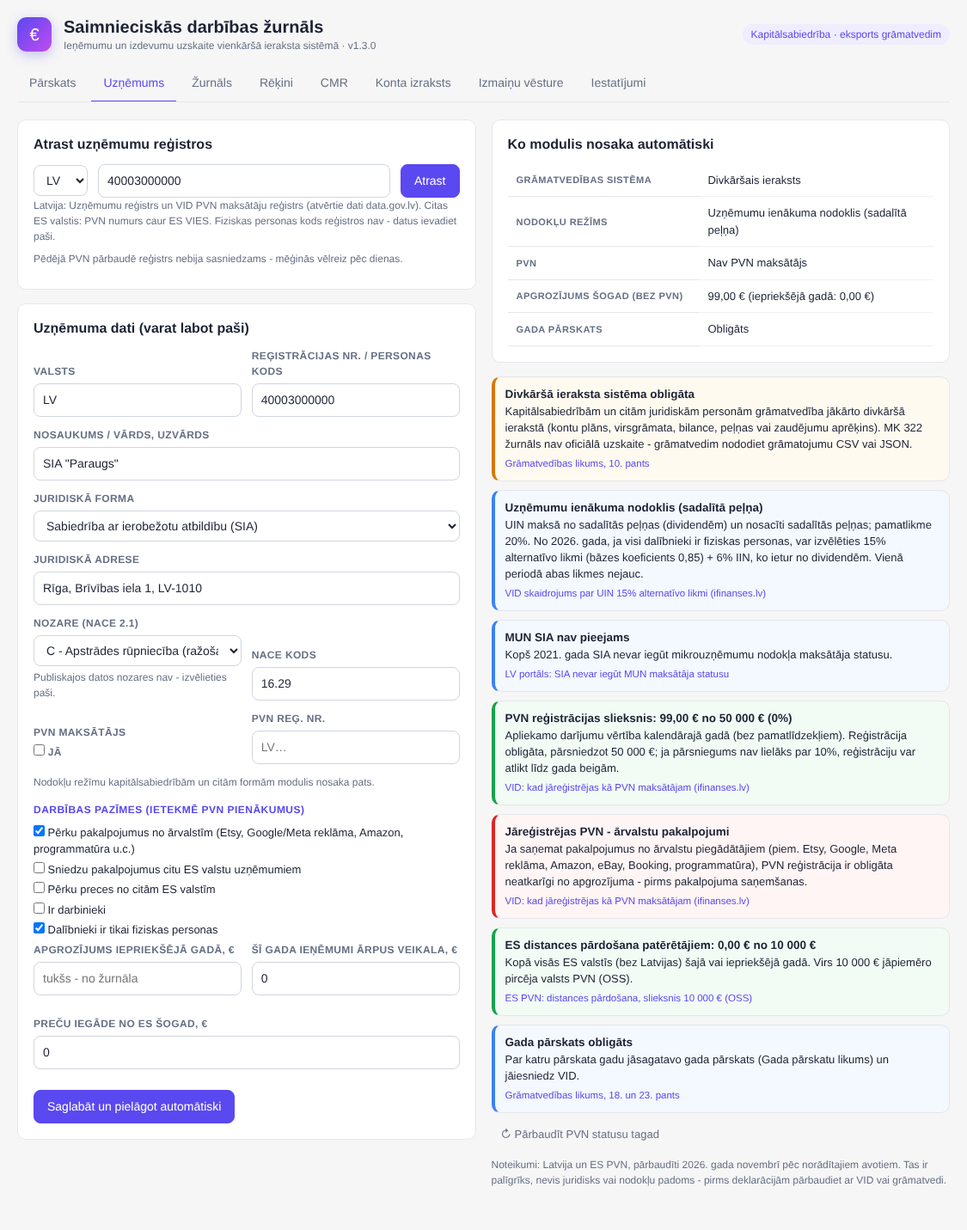
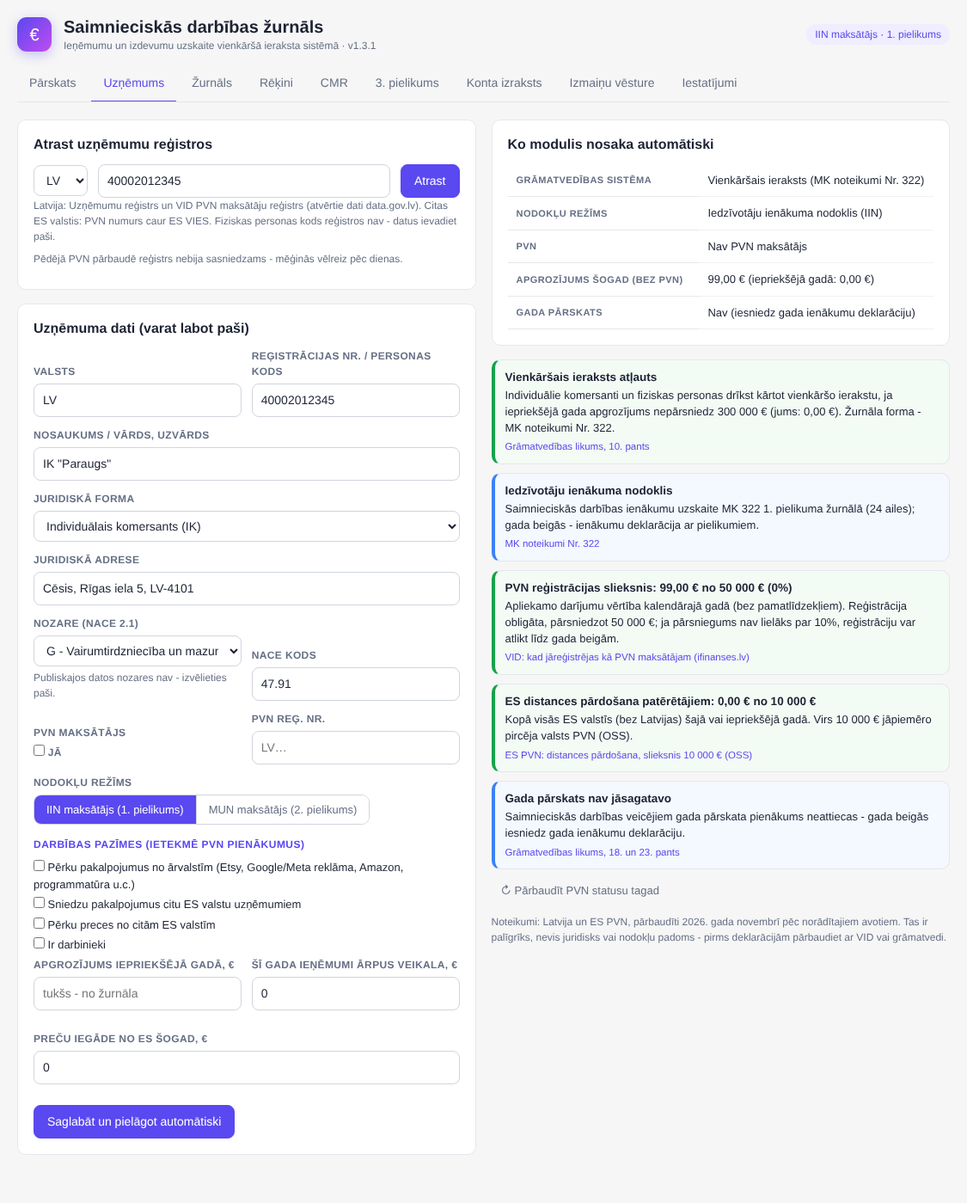
LV Books page, LV journal for IK at $49, accountant review offer
Claude-Session: https://claude.ai/code/session_01BDzH6KM6mpwT9xKqHFzTSu

diff --git a/lv-journal.html b/lv-journal.html
@@ -1,6 +1,6 @@
 <!doctype html>
 <html lang="lv"><head><meta charset="utf-8"><meta name="viewport" content="width=device-width, initial-scale=1">
-<title>Saimnieciskās darbības žurnāls - OpenCart extension</title><meta name="description" content="Ieņēmumu un izdevumu uzskaites žurnāls (MK noteikumi Nr. 322), kas aizpildās no jūsu OpenCart pasūtījumiem - ar rēķiniem, čeku foto un izmaiņu vēsturi."><style>:root{--bg:#f6f7f9;--card:#fff;--ink:#17202a;--mut:#5b6773;--line:#e2e7ec;--acc:#12805c;--acc2:#1f6fb8;--chip:#eef2f5}
+<title>Saimnieciskās darbības žurnāls - OpenCart extension</title><meta name="description" content="IK un pašnodarbinātajiem: ieņēmumu un izdevumu uzskaites žurnāls (MK noteikumi Nr. 322), kas aizpildās no jūsu OpenCart pasūtījumiem - ar rēķiniem, čeku foto un izmaiņu vēsturi. SIA - skat. SIA grāmatvedība."><style>:root{--bg:#f6f7f9;--card:#fff;--ink:#17202a;--mut:#5b6773;--line:#e2e7ec;--acc:#12805c;--acc2:#1f6fb8;--chip:#eef2f5}
 @media (prefers-color-scheme:dark){:root{--bg:#0f1418;--card:#171e24;--ink:#e8edf1;--mut:#9aa7b2;--line:#26313a;--acc:#2fb487;--acc2:#5aa5e6;--chip:#1f2830}}
 *{box-sizing:border-box}body{margin:0;background:var(--bg);color:var(--ink);font:16px/1.55 -apple-system,BlinkMacSystemFont,"Segoe UI",Roboto,Helvetica,Arial,sans-serif}
 a{color:var(--acc2)}.wrap{max-width:1000px;margin:0 auto;padding:0 16px}
@@ -19,12 +19,12 @@ ol.s{margin:0;padding-left:22px}ol.s li{margin:6px 0}
 footer{margin:44px 0 0;padding:22px 0 40px;border-top:1px solid var(--line);color:var(--mut);font-size:14px}</style></head>
 <body><div class="wrap">
 <nav><a href="./">&larr; Visi paplašinājumi</a></nav>
-<header><h1>Saimnieciskās darbības žurnāls</h1><p>Ieņēmumu un izdevumu uzskaites žurnāls (MK noteikumi Nr. 322), kas aizpildās no jūsu OpenCart pasūtījumiem - ar rēķiniem, čeku foto un izmaiņu vēsturi.</p>
-<div class="buy"><span class="price">$22</span><a class="btn main" href="https://www.opencart.com/index.php?route=marketplace/extension/info&amp;extension_id=50265">Pirkt OpenCart Marketplace</a><a class="btn" href="docs/LV_JOURNAL_GUIDE.md">Lietošanas pamācība</a></div>
+<header><h1>Saimnieciskās darbības žurnāls</h1><p>IK un pašnodarbinātajiem: ieņēmumu un izdevumu uzskaites žurnāls (MK noteikumi Nr. 322), kas aizpildās no jūsu OpenCart pasūtījumiem - ar rēķiniem, čeku foto un izmaiņu vēsturi. SIA - skat. SIA grāmatvedība.</p>
+<div class="buy"><span class="price">$49</span><a class="btn main" href="https://www.opencart.com/index.php?route=marketplace/extension/info&amp;extension_id=50265">Pirkt OpenCart Marketplace</a><a class="btn" href="docs/LV_JOURNAL_GUIDE.md">Lietošanas pamācība</a></div>
 <div class="chips"><span>OpenCart 3 + 4 vienā pirkumā</span><span>Netiek mainīti OpenCart faili</span><span>12 mēnešu atjauninājumi un atbalsts</span></div></header>
 <h2>Demo video</h2><div class="card"><video controls muted playsinline preload="metadata" poster="assets/lv_journal_demo_poster.jpg"><source src="assets/lv_journal_demo.mp4" type="video/mp4"></video><p style="margin:8px 2px 0;color:var(--mut);font-size:14px">32 sekundes, bez skaņas, ar parakstiem</p></div>
-<h2>Ko tas dara</h2><div class="card"><ul class="f"><li>Apmaksātie pasūtījumi, atmaksas un maksājumu komisijas tiek ierakstīti žurnālā automātiski, brīdī kad mainās statuss</li><li>Nekas netiek dzēsts: importētie ieraksti ir aizsargāti un tiek laboti ar korekcijas ierakstu, manuālos var anulēt ar iemeslu, katra izmaiņa redzama vēsturē</li><li>Rēķini ar nepārtrauktu numerāciju (R-2026-00001), kredītrēķini pie atmaksām, nosūtīšana pircējam e-pastā</li><li>Izdevumi no čeka vai rēķina foto: teksts tiek nolasīts pārlūkā, foto netiek sūtīts uz internetu; fails tiek saglabāts kā attaisnojuma dokuments</li><li>Pārbaudes: trūkstoši pasūtījumi un atmaksas, sākuma atlikumi, konta izraksts (camt.053), PVN 50 000 € un ES OSS 10 000 € sliekšņi</li><li>1., 2. un 3. pielikums, Latvijas Bankas kurss darījuma dienā, drukāšana (PDF), CSV, grāmatojumi un JSON grāmatvedim</li><li>Uzņēmuma profils no reģistriem (UR, VID PVN, ES VIES): modulis pats nosaka uzskaites formu, nodokļu režīmu, PVN pienākumus un sliekšņus, ar saiti uz avotu pie katra secinājuma; PVN statusu pārbauda reizi nedēļā</li><li>CMR pavadzīmes: izejošās un ienākošās, aizpildītas no rēķina vai pasūtījuma, piesaistītas rēķiniem un ierakstiem, ar 24 ailu izdruku un saņemšanas atzīmi</li><li>Latviešu, angļu vai krievu valodā</li><li>Sagatavo žurnālu - neiesniedz deklarācijas VID</li></ul></div>
+<h2>Ko tas dara</h2><div class="card"><ul class="f"><li>Apmaksātie pasūtījumi, atmaksas un maksājumu komisijas tiek ierakstīti žurnālā automātiski, brīdī kad mainās statuss</li><li>Nekas netiek dzēsts: importētie ieraksti ir aizsargāti un tiek laboti ar korekcijas ierakstu, manuālos var anulēt ar iemeslu, katra izmaiņa redzama vēsturē</li><li>Rēķini ar nepārtrauktu numerāciju (R-2026-00001), kredītrēķini pie atmaksām, nosūtīšana pircējam e-pastā</li><li>Izdevumi no čeka vai rēķina foto: teksts tiek nolasīts pārlūkā, foto netiek sūtīts uz internetu; fails tiek saglabāts kā attaisnojuma dokuments</li><li>Pārbaudes: trūkstoši pasūtījumi un atmaksas, sākuma atlikumi, konta izraksts (camt.053), PVN 50 000 € un ES OSS 10 000 € sliekšņi</li><li>1., 2. un 3. pielikums, Latvijas Bankas kurss darījuma dienā, drukāšana (PDF), CSV, grāmatojumi un JSON grāmatvedim</li><li>Uzņēmuma profils no reģistriem (UR, VID PVN, ES VIES): modulis pats nosaka uzskaites formu, nodokļu režīmu, PVN pienākumus un sliekšņus, ar saiti uz avotu pie katra secinājuma; PVN statusu pārbauda reizi nedēļā</li><li>CMR pavadzīmes: izejošās un ienākošās, aizpildītas no rēķina vai pasūtījuma, piesaistītas rēķiniem un ierakstiem, ar 24 ailu izdruku un saņemšanas atzīmi</li><li>Latviešu, angļu vai krievu valodā</li><li>Grāmatvežiem: bezmaksas licence profesionālai pārbaudei - sazinieties ar izstrādātāju</li><li>Sagatavo žurnālu - neiesniedz deklarācijas VID</li></ul></div>
 
-<h2>Ekrānuzņēmumi</h2><div class="shots"><figure><img src="assets/lv_journal_1.png" alt="Pārskats ar pārbaudēm un sliekšņiem" loading="lazy"><figcaption>Pārskats ar pārbaudēm un sliekšņiem</figcaption></figure><figure><img src="assets/lv_journal_2.png" alt="Žurnāls: aizsargāti, anulēti un salīdzināti ieraksti" loading="lazy"><figcaption>Žurnāls: aizsargāti, anulēti un salīdzināti ieraksti</figcaption></figure><figure><img src="assets/lv_journal_3.png" alt="Rēķini un kredītrēķini" loading="lazy"><figcaption>Rēķini un kredītrēķini</figcaption></figure><figure><img src="assets/lv_journal_4.png" alt="Izdevumi no rēķina foto" loading="lazy"><figcaption>Izdevumi no rēķina foto</figcaption></figure><figure><img src="assets/lv_journal_5.png" alt="Izmaiņu vēsture" loading="lazy"><figcaption>Izmaiņu vēsture</figcaption></figure><figure><img src="assets/lv_journal_6.png" alt="CMR pavadzīmes" loading="lazy"><figcaption>CMR pavadzīmes</figcaption></figure><figure><img src="assets/lv_journal_7.png" alt="Uzņēmuma profils un noteikumi" loading="lazy"><figcaption>Uzņēmuma profils un noteikumi</figcaption></figure></div>
+<h2>Ekrānuzņēmumi</h2><div class="shots"><figure><img src="assets/lv_journal_1.png" alt="Pārskats ar pārbaudēm un sliekšņiem" loading="lazy"><figcaption>Pārskats ar pārbaudēm un sliekšņiem</figcaption></figure><figure><img src="assets/lv_journal_2.png" alt="Žurnāls: aizsargāti, anulēti un salīdzināti ieraksti" loading="lazy"><figcaption>Žurnāls: aizsargāti, anulēti un salīdzināti ieraksti</figcaption></figure><figure><img src="assets/lv_journal_3.png" alt="Rēķini un kredītrēķini" loading="lazy"><figcaption>Rēķini un kredītrēķini</figcaption></figure><figure><img src="assets/lv_journal_4.png" alt="Izdevumi no rēķina foto" loading="lazy"><figcaption>Izdevumi no rēķina foto</figcaption></figure><figure><img src="assets/lv_journal_5.png" alt="Izmaiņu vēsture" loading="lazy"><figcaption>Izmaiņu vēsture</figcaption></figure><figure><img src="assets/lv_journal_6.png" alt="CMR pavadzīmes" loading="lazy"><figcaption>CMR pavadzīmes</figcaption></figure><figure><img src="assets/lv_journal_7.png" alt="Uzņēmuma profils (IK) un noteikumi" loading="lazy"><figcaption>Uzņēmuma profils (IK) un noteikumi</figcaption></figure></div>
 <footer><p>Jautājumi: <a href="https://github.com/val218/opencart-extensions/issues">atveriet issue</a>. OpenCart ir OpenCart Limited preču zīme; šie paplašinājumi ir neatkarīgi.</p></footer>
 </div></body></html>

diff --git a/lv-books.html b/lv-books.html
@@ -1,0 +1,30 @@
+<!doctype html>
+<html lang="lv"><head><meta charset="utf-8"><meta name="viewport" content="width=device-width, initial-scale=1">
+<title>SIA grāmatvedība - OpenCart extension</title><meta name="description" content="Mazām un mikro SIA (PVN maksātājām un nemaksātājām): divkāršais ieraksts no OpenCart pasūtījumiem, PVN deklarācija, UIN un gada pārskats. IK un pašnodarbinātajiem - Saimnieciskās darbības žurnāls."><style>:root{--bg:#f6f7f9;--card:#fff;--ink:#17202a;--mut:#5b6773;--line:#e2e7ec;--acc:#12805c;--acc2:#1f6fb8;--chip:#eef2f5}
+@media (prefers-color-scheme:dark){:root{--bg:#0f1418;--card:#171e24;--ink:#e8edf1;--mut:#9aa7b2;--line:#26313a;--acc:#2fb487;--acc2:#5aa5e6;--chip:#1f2830}}
+*{box-sizing:border-box}body{margin:0;background:var(--bg);color:var(--ink);font:16px/1.55 -apple-system,BlinkMacSystemFont,"Segoe UI",Roboto,Helvetica,Arial,sans-serif}
+a{color:var(--acc2)}.wrap{max-width:1000px;margin:0 auto;padding:0 16px}
+nav{padding:18px 0;font-size:15px}nav a{text-decoration:none}
+header{padding:10px 0 20px}header h1{font-size:clamp(28px,5vw,42px);line-height:1.1;margin:0 0 10px;letter-spacing:-.5px}header p{font-size:19px;color:var(--mut);margin:0;max-width:780px}
+.buy{display:flex;flex-wrap:wrap;gap:12px;align-items:center;margin-top:18px}.price{font-size:22px;font-weight:700}
+.btn{display:inline-block;text-decoration:none;font-weight:600;font-size:15px;padding:10px 16px;border-radius:9px;border:1px solid var(--line);color:var(--ink);background:var(--card)}.btn.main{background:var(--acc);border-color:var(--acc);color:#fff}
+h2{font-size:23px;margin:36px 0 12px}
+.card{background:var(--card);border:1px solid var(--line);border-radius:14px;padding:16px}
+video{width:100%;border-radius:10px;display:block;background:#000}
+ul.f{margin:0;padding-left:22px}ul.f li{margin:6px 0}
+ol.s{margin:0;padding-left:22px}ol.s li{margin:6px 0}
+.shots{display:grid;grid-template-columns:repeat(auto-fill,minmax(300px,1fr));gap:14px}
+.shots figure{margin:0;background:var(--card);border:1px solid var(--line);border-radius:12px;overflow:hidden}.shots img{width:100%;display:block}.shots figcaption{padding:8px 12px;font-size:14px;color:var(--mut)}
+.chips{display:flex;flex-wrap:wrap;gap:8px;margin-top:14px}.chips span{background:var(--chip);border-radius:20px;padding:5px 12px;font-size:14px;font-weight:600}
+footer{margin:44px 0 0;padding:22px 0 40px;border-top:1px solid var(--line);color:var(--mut);font-size:14px}</style></head>
+<body><div class="wrap">
+<nav><a href="./">&larr; Visi paplašinājumi</a></nav>
+<header><h1>SIA grāmatvedība</h1><p>Mazām un mikro SIA (PVN maksātājām un nemaksātājām): divkāršais ieraksts no OpenCart pasūtījumiem, PVN deklarācija, UIN un gada pārskats. IK un pašnodarbinātajiem - Saimnieciskās darbības žurnāls.</p>
+<div class="buy"><span class="price">$79</span><a class="btn main" href="https://www.opencart.com/index.php?route=marketplace/extension&amp;filter_member=lastadia">Pirkt OpenCart Marketplace</a><a class="btn" href="docs/LV_BOOKS_GUIDE.md">Lietošanas pamācība</a></div>
+<div class="chips"><span>OpenCart 3 + 4 vienā pirkumā</span><span>Netiek mainīti OpenCart faili</span><span>12 mēnešu atjauninājumi un atbalsts</span></div></header>
+
+<h2>Ko tas dara</h2><div class="card"><ul class="f"><li>Apmaksātie pasūtījumi, atmaksas un komisijas kļūst par grāmatojumiem automātiski; izdevumi ar kontu (izmaksas, krājumi, pamatlīdzekļi)</li><li>Apgrozījuma pārskats, konta izdruka, virsgrāmata CSV, peļņas vai zaudējumu aprēķins un bilance pēc gada pārskata rindām</li><li>PVN: katram dokumentam PVN veids (iekšzeme, ES preces un pakalpojumi, eksports, OSS, apgrieztā maksāšana, imports); deklarācija, PVN 1, PVN 2 un XML VID EDS</li><li>Nav PVN maksātājs? 139.2 panta reģistrācija un brīdinājums, kad jāreģistrējas</li><li>Krājumi pēc vidējās cenas, pamatlīdzekļi ar nolietojumu, inventarizācija</li><li>Dividendes ar UIN 20% vai 15% + IIN 6% (no 2026), UIN deklarācijas XML, gada pārskats mikrosabiedrībām (XML)</li><li>Termiņu kalendārs: UIN, PVN, OSS, IIN no dividendēm, gada pārskats</li><li>Nekas netiek dzēsts: anulēšana ar iemeslu, izmaiņu vēsture; uzņēmuma profils no reģistriem, CMR, rēķini</li><li>Nav iekļauts: algu aprēķins, piegādātāju rēķinu uzkrāšana, valūtas kursu starpības</li><li>Grāmatvežiem: bezmaksas licence profesionālai pārbaudei - sazinieties ar izstrādātāju</li><li>Sagatavo grāmatas un failus - neiesniedz VID; nav vēl pārbaudīts ar sertificētu grāmatvedi</li></ul></div>
+
+<h2>Ekrānuzņēmumi</h2><div class="shots"><figure><img src="assets/lv_books_1.png" alt="PVN deklarācija no dokumentiem" loading="lazy"><figcaption>PVN deklarācija no dokumentiem</figcaption></figure><figure><img src="assets/lv_books_2.png" alt="Peļņas vai zaudējumu aprēķins, bilance un gada pārskats" loading="lazy"><figcaption>Peļņas vai zaudējumu aprēķins, bilance un gada pārskats</figcaption></figure><figure><img src="assets/lv_books_3.png" alt="Apgrozījuma pārskats" loading="lazy"><figcaption>Apgrozījuma pārskats</figcaption></figure><figure><img src="assets/lv_books_4.png" alt="UIN un termiņi" loading="lazy"><figcaption>UIN un termiņi</figcaption></figure><figure><img src="assets/lv_books_5.png" alt="Izdevumi ar kontu un PVN veidu" loading="lazy"><figcaption>Izdevumi ar kontu un PVN veidu</figcaption></figure><figure><img src="assets/lv_books_6.png" alt="Dalībnieki un dividendes" loading="lazy"><figcaption>Dalībnieki un dividendes</figcaption></figure><figure><img src="assets/lv_books_7.png" alt="Krājumi un pamatlīdzekļi" loading="lazy"><figcaption>Krājumi un pamatlīdzekļi</figcaption></figure><figure><img src="assets/lv_books_8.png" alt="Uzņēmuma profils (SIA)" loading="lazy"><figcaption>Uzņēmuma profils (SIA)</figcaption></figure></div>
+<footer><p>Jautājumi: <a href="https://github.com/val218/opencart-extensions/issues">atveriet issue</a>. OpenCart ir OpenCart Limited preču zīme; šie paplašinājumi ir neatkarīgi.</p></footer>
+</div></body></html>

diff --git a/index.html b/index.html
@@ -112,8 +112,12 @@ footer{margin:48px 0 0;padding:24px 0 40px;border-top:1px solid var(--line);colo
 <div class="links"><a class="btn main" href="https://www.opencart.com/index.php?route=marketplace/extension/info&amp;extension_id=50264">OpenCart Marketplace</a><a class="btn" href="uk-export.html">Demo video</a><a class="btn" href="docs/UK_EXPORT_GUIDE.md">Guide</a></div></div></div>
 
 <div class="card"><img src="assets/lv_journal_banner.png" alt="Latvian income and expense journal banner" loading="lazy"><div class="b">
-<h3><a href="lv-journal.html" style="color:inherit;text-decoration:none">LV Income &amp; Expense Journal</a></h3><p>Ieņēmumu un izdevumu uzskaites žurnāls, aizpildīts no apmaksātajiem pasūtījumiem: PVN, EUR, mēneša kopsummas, drukāšana un CSV.</p><div class="price">$22</div>
+<h3><a href="lv-journal.html" style="color:inherit;text-decoration:none">LV Income &amp; Expense Journal (IK)</a></h3><p>IK un pašnodarbinātajiem: ieņēmumu un izdevumu žurnāls (MK 322), aizpildīts no apmaksātajiem pasūtījumiem, ar rēķiniem, čeku foto, CMR un uzņēmuma profilu.</p><div class="price">$49</div>
 <div class="links"><a class="btn main" href="https://www.opencart.com/index.php?route=marketplace/extension/info&amp;extension_id=50265">OpenCart Marketplace</a><a class="btn" href="lv-journal.html">Demo video</a><a class="btn" href="docs/LV_JOURNAL_GUIDE.md">Guide</a></div></div></div>
+
+<div class="card"><img src="assets/lv_books_banner.png" alt="SIA bookkeeping banner" loading="lazy"><div class="b">
+<h3><a href="lv-books.html" style="color:inherit;text-decoration:none">LV Books - SIA grāmatvedība</a></h3><p>Mazām un mikro SIA: divkāršais ieraksts no pasūtījumiem, PVN deklarācija un OSS, krājumi, dividendes, UIN un gada pārskats (XML VID EDS).</p><div class="price">$79</div>
+<div class="links"><a class="btn main" href="https://www.opencart.com/index.php?route=marketplace/extension&amp;filter_member=lastadia">OpenCart Marketplace</a><a class="btn" href="lv-books.html">Screenshots</a><a class="btn" href="docs/LV_BOOKS_GUIDE.md">Guide</a></div></div></div>
 </div>
 
 <h2>Screenshots</h2>

diff --git a/docs/LV_BOOKS_GUIDE.md b/docs/LV_BOOKS_GUIDE.md
@@ -1,0 +1,87 @@
+# SIA grāmatvedība (LV Books) - lietošanas instrukcija (v1.1.0)
+
+Divkāršā ieraksta grāmatvedība Latvijas SIA tieši OpenCart administrācijā. Uztur jūsu SIA grāmatas gatavas grāmatvedim - **neaizstāj grāmatvedi**. Mazām SIA gada pārskatu parasti paraksta grāmatvedis vai valde pēc grāmatveža pārbaudes.
+
+Modulis ir atsevišķs produkts, veidots uz "Saimnieciskās darbības žurnāla" pamata: tam ir savas tabulas (`lv_books_*`), un abus moduļus var turēt vienā veikalā.
+
+## Uzstādīšana
+- **OpenCart 3:** Extensions > Installer → `lv_books_oc3.ocmod.zip` → Extensions > Extensions > Modules → "LV grāmatvedība SIA (divkāršais ieraksts)" → Install.
+- **OpenCart 4:** Extensions > Installer → `lv_books.ocmod.zip` (nemainiet faila nosaukumu) → Install → Extensions > Extensions > Modules → Install.
+- Izvēlnē: **Reports > SIA grāmatvedība**.
+
+## Pirmie soļi
+1. **Uzņēmums:** ievadiet SIA reģistrācijas numuru → "Atrast" (Uzņēmumu reģistrs, VID PVN reģistrs). SIA vienmēr kārto divkāršo ierakstu un maksā UIN; MUN SIA nav pieejams.
+2. **Grāmatvedība → Grāmatvedības iestatījumi:** grāmatvedības sākuma datums, finanšu gads, pamatlīdzekļu slieksnis, valdes loceklis, grāmatvedības politika.
+3. **Grāmatvedība → Grāmatojumi → Sākuma atlikumi:** visu bilances kontu atlikumi sākuma datumā (no iepriekšējās bilances). Ja pārejat no "Saimnieciskās darbības žurnāla", sāciet jaunas grāmatas ar sākuma atlikumiem izvēlētajā datumā - vēsture netiek pārvērsta.
+4. **Krājumi un PL → Krājumu sākuma atlikumi** (precēm, kuras pārdodat) un **Pamatlīdzekļi** (esošie, ar jau aprēķināto nolietojumu).
+5. **Dalībnieki:** dalībnieki un daļas; atzīmējiet, vai tie ir fiziskas personas (15% UIN iespējai).
+6. **Iestatījumi:** pasūtījumu statusi, maksājumu veidi un to komisijas (kā žurnālā), IBAN rēķiniem.
+
+## Kā veidojas grāmatojumi
+- **Pasūtījumi, atmaksas, komisijas** - automātiski, kad mainās pasūtījuma statuss (Dt nauda / Kt 6110 ieņēmumi, PVN 5721; komisija 7510).
+- **Izdevumi** (Dokumenti → + Izdevumi vai 📷 no čeka foto): izvēlieties **kontu** - izdevumu konts, krājumi (2130/2110 ar preču rindām), pamatlīdzeklis (1210/1110), ar darbību nesaistīti (7580 → UIN). Dokuments citā valūtā - pārrēķins pēc Latvijas Bankas kursa.
+- **Rēķini** (bez pasūtījuma) - izrakstot Dt 2310 / Kt 6110 + PVN; apmaksa dzēš pircēja parādu.
+- **Krājumi** - pārdodot pasūtījumu, pašizmaksa pēc vidējās cenas (Dt 7110 / Kt 2130). Gada beigās - inventarizācija; starpība uz 7110.
+- **Pamatlīdzekļi** - lineārais nolietojums katru mēnesi no nākamā mēneša pēc nodošanas lietošanā (Dt 7410 / Kt 1290 vai 1190).
+- **Dividendes** - lēmums Dt 3410 / Kt 5150; izmaksa Dt 5150 / Kt nauda, UIN Dt 8610 / Kt 5710 izmaksas mēnesī; 15% gadījumā IIN 6% Kt 5710.
+- **Manuāli grāmatojumi** - aizdevumi (2390, 5210), algu kopsummas no algu programmas, pārgrāmatojumi.
+- Ja žurnāla dokumentā naudas un ieņēmumu/izdevumu summas nesakrīt (piem. korekcija bez naudas), starpība iet uz 2310 vai 5910, un pārbaude to parāda.
+
+Nekas netiek dzēsts: importētie dokumenti ir aizsargāti, manuālos anulē ar iemeslu, katra izmaiņa redzama izmaiņu vēsturē.
+
+## Pārskati
+- **Apgrozījuma pārskats** (debets = kredīts), konta izdruka (klikšķis uz konta), virsgrāmata CSV.
+- **Peļņas vai zaudējumu aprēķins** (pēc funkcijām, PZA2 rindas) un **bilance** (BA/BP rindas).
+- **Gada pārskats** mikrosabiedrībām (UGP): veselos eiro, ar iepriekšējā gada salīdzinājumu, XML VID EDS (DokGPv1).
+
+## PVN (cilne "PVN")
+Statuss nāk no uzņēmuma profila (VID PVN reģistrs): **PVN maksātājs**, **139.2 panta reģistrācija** vai **nav PVN maksātājs**.
+
+Katram dokumentam ir **PVN veids**. To nosaka automātiski (pircēja valsts, PVN numurs pasūtījuma papildu laukos, piemērotā likme), un to var mainīt cilnē PVN (✎) vai izdevumu redaktorā:
+
+| Veids | Deklarācija | Grāmatojums |
+|---|---|---|
+| Iekšzemes piegāde 21/12/5% | 41/42/42.1 un 52/53/53.1; PVN 1 III (no 150 €) | Kt 5721 |
+| Iekšzemē, PVN maksā saņēmējs | 41.1; PVN 1 III | - |
+| Preces ES PVN maksātājam 0% | 45; PVN 2 kods G | - |
+| Pakalpojumi ES PVN maksātājam | 48.2; PVN 2 kods P; PVN 1 III | - |
+| Preču eksports 0% | 48.1 | - |
+| Pakalpojumi ārpus ES | 48.2 | - |
+| ES patērētājiem - OSS | nav LV deklarācijā; OSS ceturkšņa kopsavilkums | Kt 5722 |
+| Atbrīvots | 49 | - |
+| Iegāde iekšzemē ar PVN | 62; PVN 1 I kods A (zem 150 € - V/T) | Dt 2371 |
+| Iegāde, PVN maksā saņēmējs (141.-143.4 p.) | 52 un 62; PVN 1 I kods R1-R7 | Dt 2371 / Kt 5721 |
+| Preces / pakalpojumi no ES | 50 (51, 51.1), 55 (56, 56.1), 64; PVN 1 II G/P | Dt 2371 / Kt 5721 |
+| Pakalpojumi no ārpus ES | 54 un 63 | Dt 2371 / Kt 5721 |
+| Imports | 61; PVN 1 I kods I | Dt 2371 |
+
+- Daļēji atskaitāms priekšnodoklis (piem. vieglais auto 50%, reprezentācija 40%) - lauks "Atskaitāmais priekšnodoklis, %"; neatskaitāmā daļa iet izmaksās.
+- Atmaksa par iepriekšējā perioda pārdošanu samazina PVN 67. rindā; piegādātāja kredītrēķins - 57. rindā. 57, 65, 66 un 67 rindai var pieskaitīt summu ar roku.
+- **Taksācijas periods:** ceturksnis vai mēnesis (mēnesis - ja apgrozījums > 50 000 €, ja ir piegādes ES PVN maksātājiem, un pirmos 6 mēnešus pēc reģistrācijas; modulis brīdina). Deklarācija līdz 20. datumam, samaksa līdz 23. datumam.
+- **XML VID EDS (DokPVNv7):** deklarācija, PVN 1 (I, II, III daļa) un PVN 2. Atveriet to EDS un pārbaudiet pirms iesniegšanas. PVN reģistrs CSV - grāmatvedim.
+- **OSS:** pārdošana ES patērētājiem virs 10 000 € gadā - galamērķa valsts PVN, ceturkšņa kopsavilkums pa valstīm un likmēm; termiņš - nākamā mēneša pēdējā diena.
+- **139.2 pants** (nav PVN maksātājs, reģistrēts tikai pakalpojumiem no ārvalstīm un ES precēm): PVN 21% aprēķina no pakalpojumiem no ārvalstīm un ES precēm, grāmato izmaksās (Dt izdevumi / Kt 5721), mēneša saraksts paziņojumam par PVN samaksu (līdz nākamā mēneša 20. datumam).
+- **Nav PVN maksātājs:** pārbaude brīdina, ja jāreģistrējas - pakalpojumi no ārvalstīm, pakalpojumi ES uzņēmumiem, preces no ES > 10 000 € gadā (apgrozījuma 50 000 € slieksnis - kā žurnālā).
+- Rēķinos ES / apgrieztās maksāšanas darījumiem ierakstiet piezīmi "Nodokļa apgrieztā maksāšana" un pircēja PVN numuru - pārbaude to atgādina.
+
+## UIN
+- 20% no sadalītās peļņas: bāze = summa / 0,8 (1000 € dividendes → UIN 250 €).
+- No 2026. gada, ja visi dalībnieki ir fiziskas personas: 15% (bāze = summa / 0,85) un 6% IIN ieturējums (1000 € → UIN 176 €, IIN 60 €, dalībnieks saņem 940 €). VID veidlapā vēl nav atsevišķas rindas: 1. un 4. rinda kā parasti, starpība starp 20% un 15% 25. rindā, skaidrojums 25.1 rindā ("UIN samazinājums par dividendēm saskaņā ar Uzņēmumu ienākuma nodokļa likuma 4.2 pantu"). IIN 6% maksā līdz nākamā mēneša 23. datumam un deklarē par katru personu.
+- Nosacīti sadalītā peļņa: ar saimniecisko darbību nesaistītie izdevumi (7580) un soda naudas (7610) → R06_1. Aizdevumi dalībniekiem gada beigās tiek parādīti kā brīdinājums.
+- Cilnē **Nodokļi**: mēneša aprēķins, XML VID EDS (DokUIENv5), termiņu kalendārs (UIN 20. datums, PVN, IIN no dividendēm, gada pārskats) ar atzīmi "iesniegts".
+
+## Šajā versijā nav
+- Algu un darba devēja VSAOI aprēķina (ierakstiet algu kopsummas no algu programmas kā grāmatojumu).
+- Piegādātāju rēķinu uzkrāšanas līdz apmaksai (izdevumi tiek grāmatoti apmaksā; uzkrājumus var ievadīt ar manuālu grāmatojumu).
+- Valūtas kursu starpību (pircēju un piegādātāju parādi ārvalstu valūtā) - ievadiet ar manuālu grāmatojumu (6320 / 7570).
+- Importa PVN īpašās kārtības (aprēķins deklarācijā ar VID atļauju) un IOSS.
+
+## Jāpārbauda grāmatvedim (nav pārbaudīts ar grāmatvedi)
+- Kontu plāna rindu piesaiste gada pārskatam (it īpaši 5210, 5610, 2371, 5721, 8110).
+- UIN 15% atspoguļojums 25. rindā un XML elementi.
+- Gada pārskata termiņš konkrētajam uzņēmuma lielumam (iestatījums "Gada pārskata termiņš", noklusējums 4 mēneši).
+- Reprezentācijas izdevumu un aizdevumu dalībniekiem iekļaušana UIN bāzē.
+- Gada pārskata XML (DokGPv1) pirms pirmās iesniegšanas.
+- PVN: PVN 1 dokumentu veida kodi (1 rēķins, 2 čeks, 5 muitas dokuments), I daļas kods "N" pakalpojumiem no ārpus ES, PVN numura rakstība bez valsts prefiksa, kredītrēķinu atspoguļojums 41. rindā un 67. rindā, OSS darījumu neiekļaušana LV deklarācijā, 139.2 paziņojuma termiņš.
+
+Rīks palīdz kārtot grāmatvedību, bet nav juridisks vai nodokļu padoms un neko neiesniedz VID pats.
